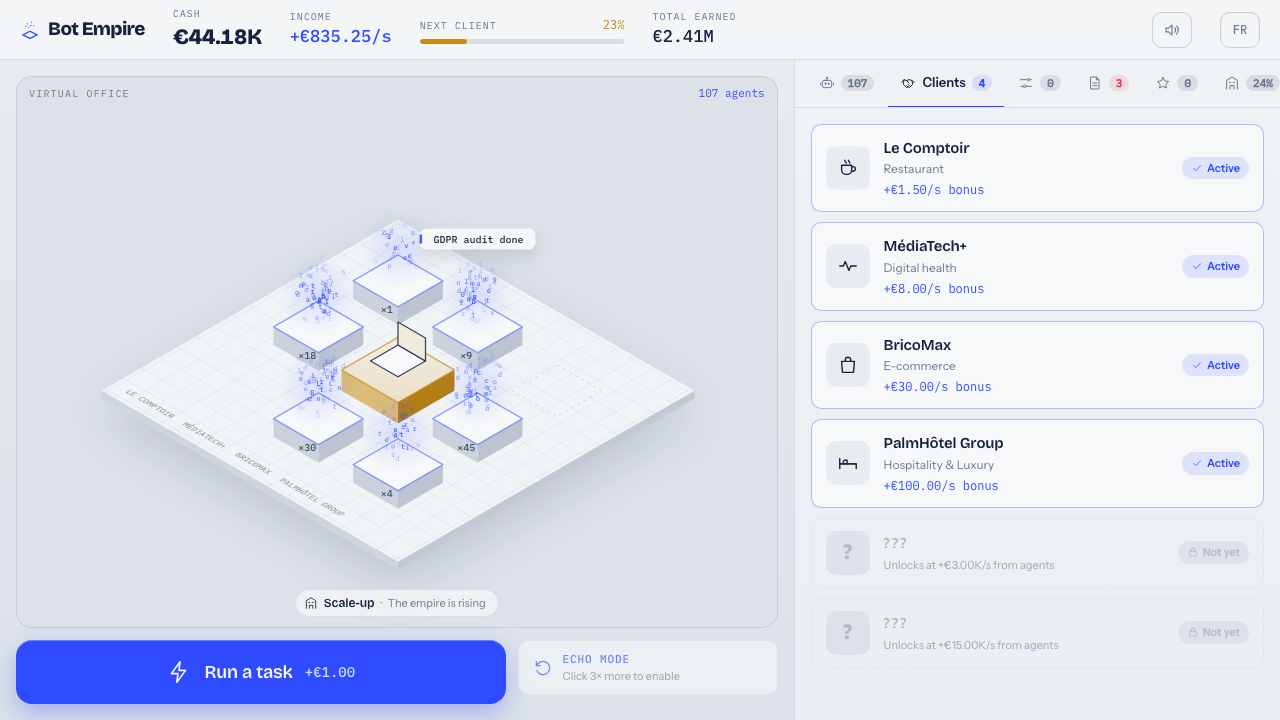
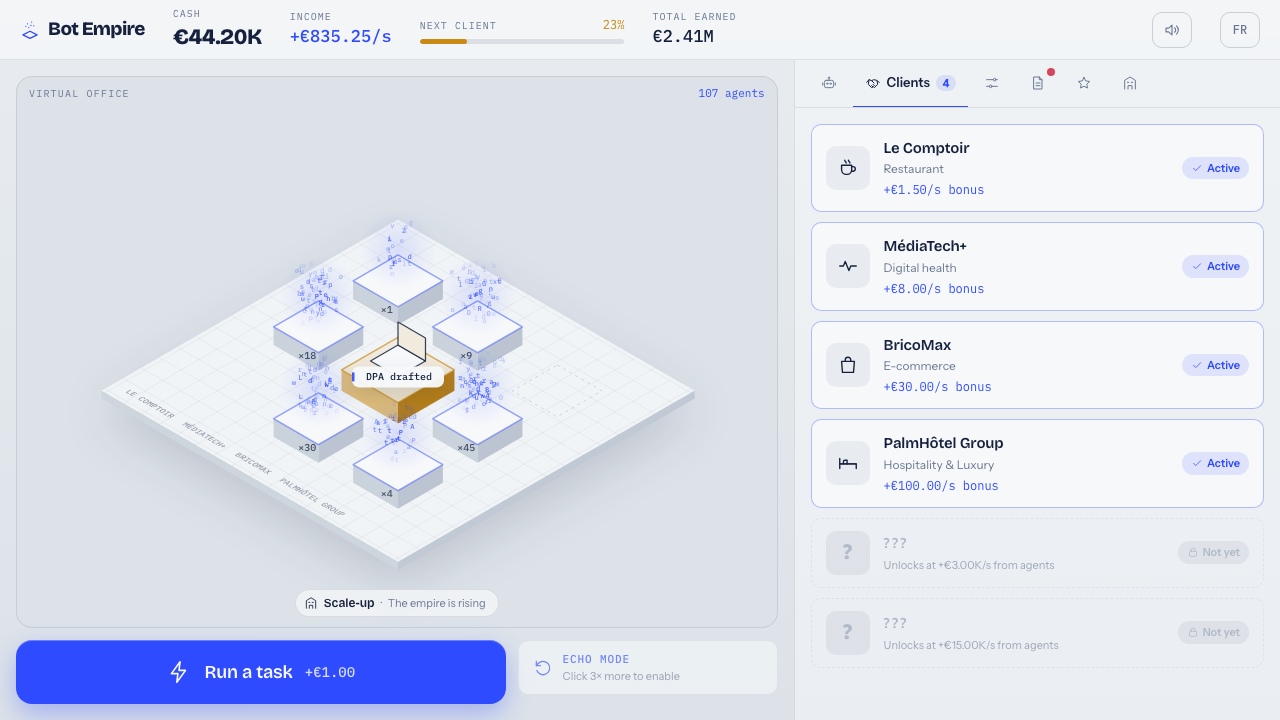
docs(itch): captures à jour (onglets, montants en français) et mention de confidentialité

diff --git a/docs/itch/PAGE.md b/docs/itch/PAGE.md
@@ -38,4 +38,6 @@ Vous dirigez une agence d'automatisation à une personne. Chaque clic exécute u
 - Vos agents continuent de travailler pendant votre absence
 - En français ou en anglais, sur ordinateur et téléphone, sans compte ni téléchargement
 
+**Privacy / Confidentialité** — Your progress is saved in your browser. A copy is also kept under an anonymous ID with Google Firebase (servers in Europe), so you don't lose it; no name, e-mail or account is collected. Clearing your browser data erases it. / Votre progression est enregistrée dans votre navigateur. Une copie est aussi gardée sous un identifiant anonyme chez Google Firebase (serveurs en Europe), pour ne pas la perdre ; aucun nom, e-mail ni compte n'est collecté. Effacer les données du navigateur la supprime.
+
 *Une production L'Archipel.*
